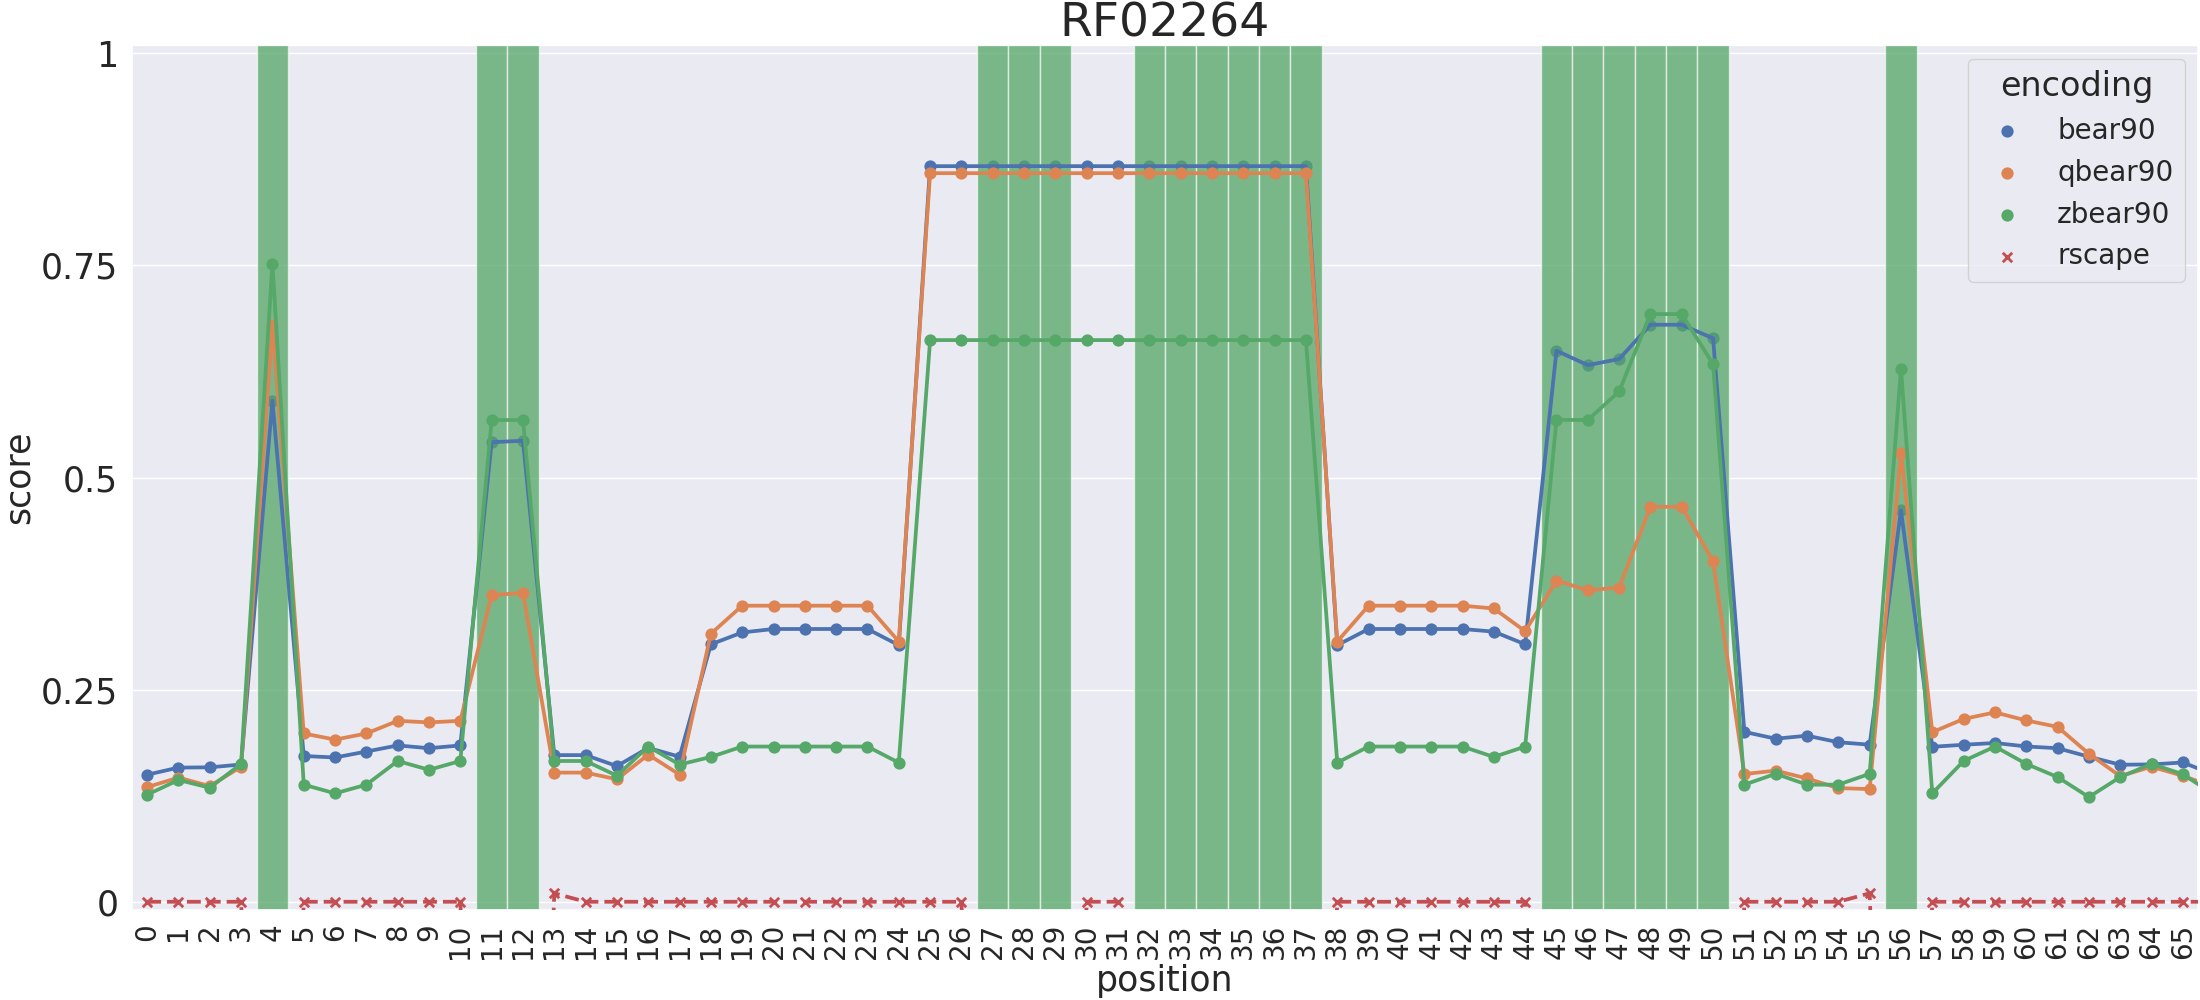
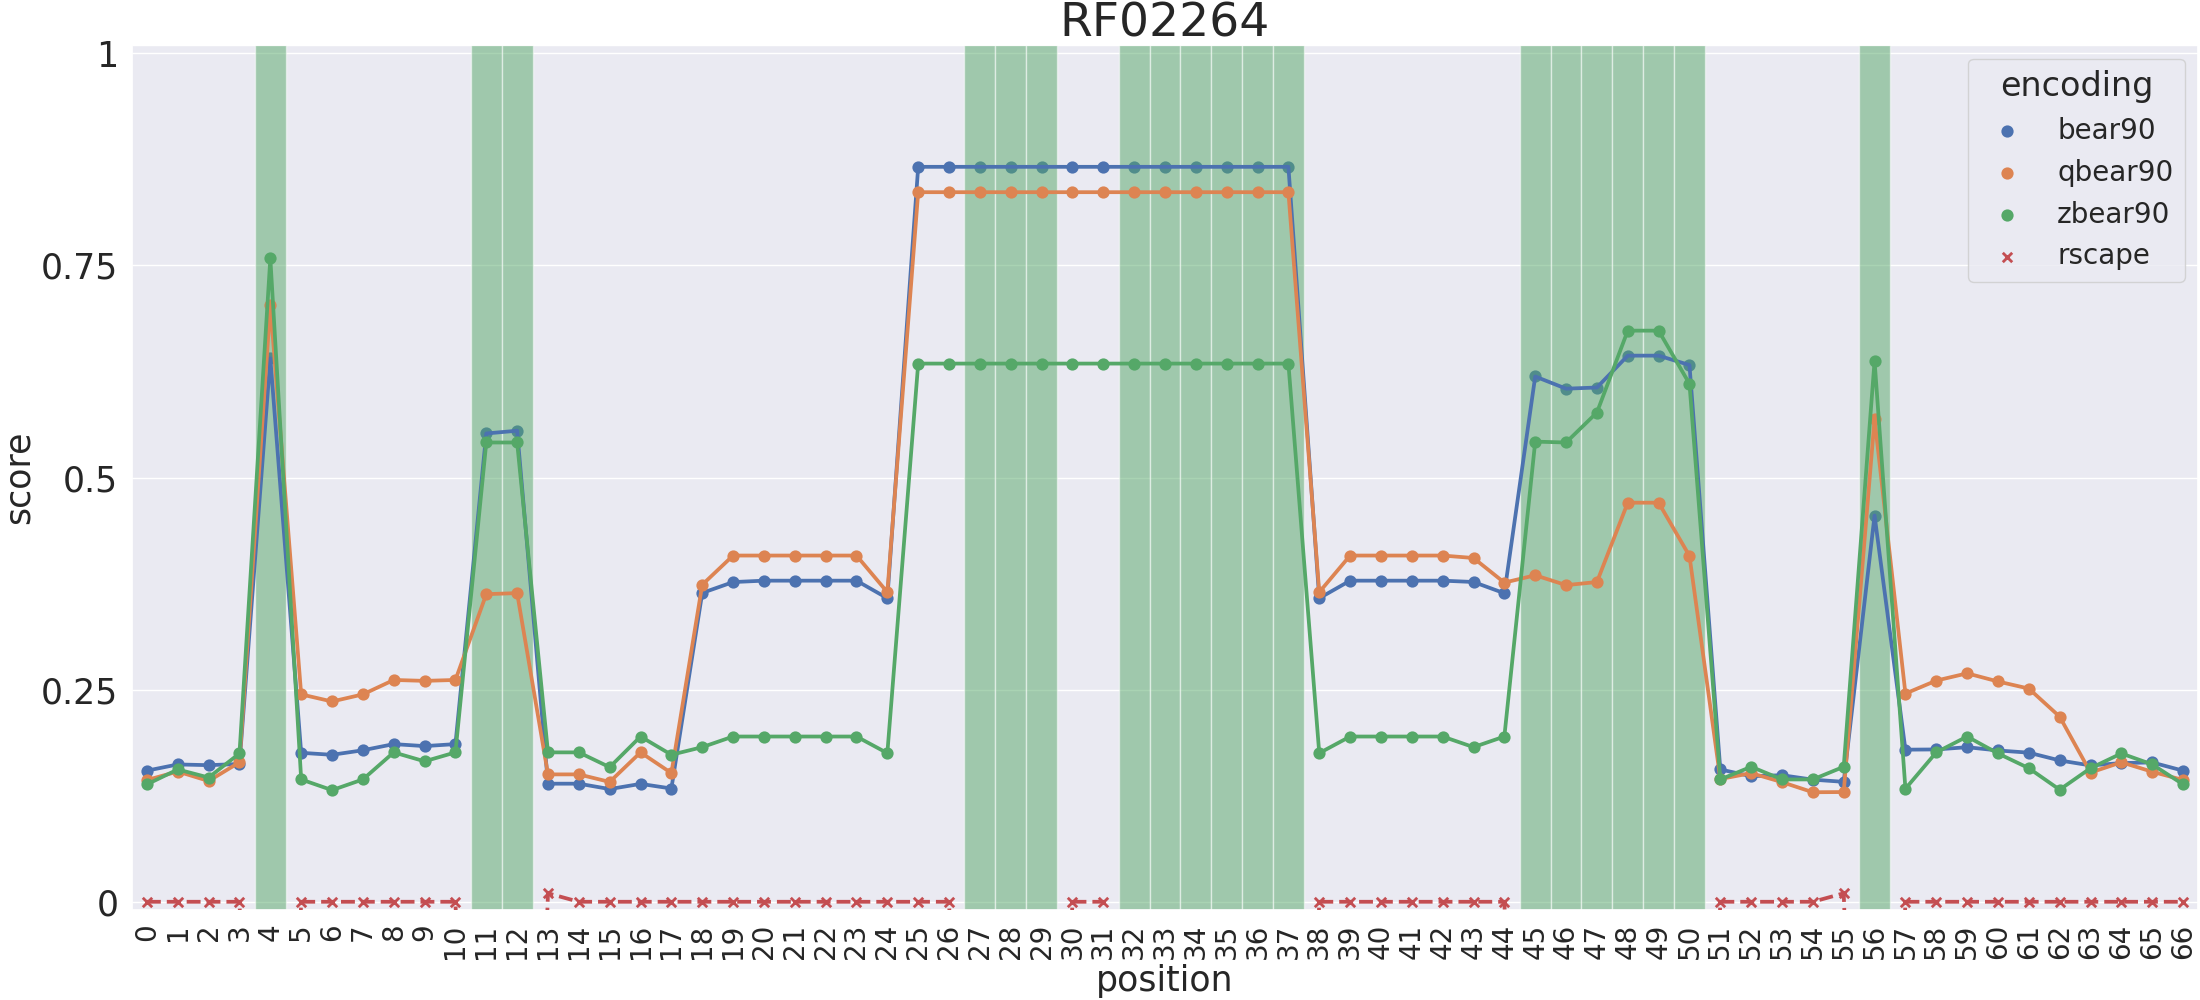
fixed x-axis in WUSS plots; updated images

Changed region(s): [[0.0618, 0.031, 1.0, 0.961]]

diff --git a/scripts/function_mbr.py b/scripts/function_mbr.py
@@ -471,18 +471,15 @@ def get_colored_chunks(color_string, base1=False):
         while (i < len(color_string)) and (color_string[i] == my_color):
             i += 1
 
-        end_idx = i
+        end_idx = i + 1
 
-        # rangeX = np.arange(start_idx, end_idx, 1)
-        rangeX = np.arange(start_idx - 0.1, end_idx + 0.1)
-
-        # rangeY = RIG_values[start_idx:end_idx]
+        rangeX = np.arange(start_idx, end_idx, 1)
         rangeY = 1 * np.arange(start_idx, end_idx, 1)
 
         # If it is a single point then draw a narrow band at point height
-        if end_idx - start_idx == 1:
-            # rangeX = [start_idx-0.2, start_idx+0.2]
-            rangeY = [1, 1]
+        #if end_idx - start_idx == 1:
+        #    rangeX = [start_idx-0.2, start_idx+0.2]
+        #    rangeY = [1, 1]
 
         if base1:
             rangeX = rangeX + 1

diff --git a/scripts/plot_RIG_with_WUSS_notation.py b/scripts/plot_RIG_with_WUSS_notation.py
@@ -81,7 +81,7 @@ def plot_RIG_WUSS(RF, RIG_dict, WUSS_color_dict, encodings, filename='test'):
 
     # For each color block, color under the corresponding area
     for count, colored_chunk in enumerate(colored_chunks):
-        plt.fill_between(colored_chunk[0], 1, facecolor=colored_chunk[2], alpha=0.5)
+        plt.fill_between(colored_chunk[0] - 0.5, 1, facecolor=colored_chunk[2], alpha=0.5)
     # plt.fill_between(range(len(RIG_dict[enc][RF])), RIG_dict[enc][RF],
     #               where=list(WUSS_color_dict[RF])=='r',interpolate=True,
     #               facecolor='r', alpha=0.2 )
@@ -117,4 +117,3 @@ for RF_ in RIG_dict[list(RIG_dict.keys())[0]]:
         encodings=['bear90', 'qbear90', 'zbear90'],
         filename=f"{RIG_with_WUSS_output_dir}{RF_}_90"
     )
-
